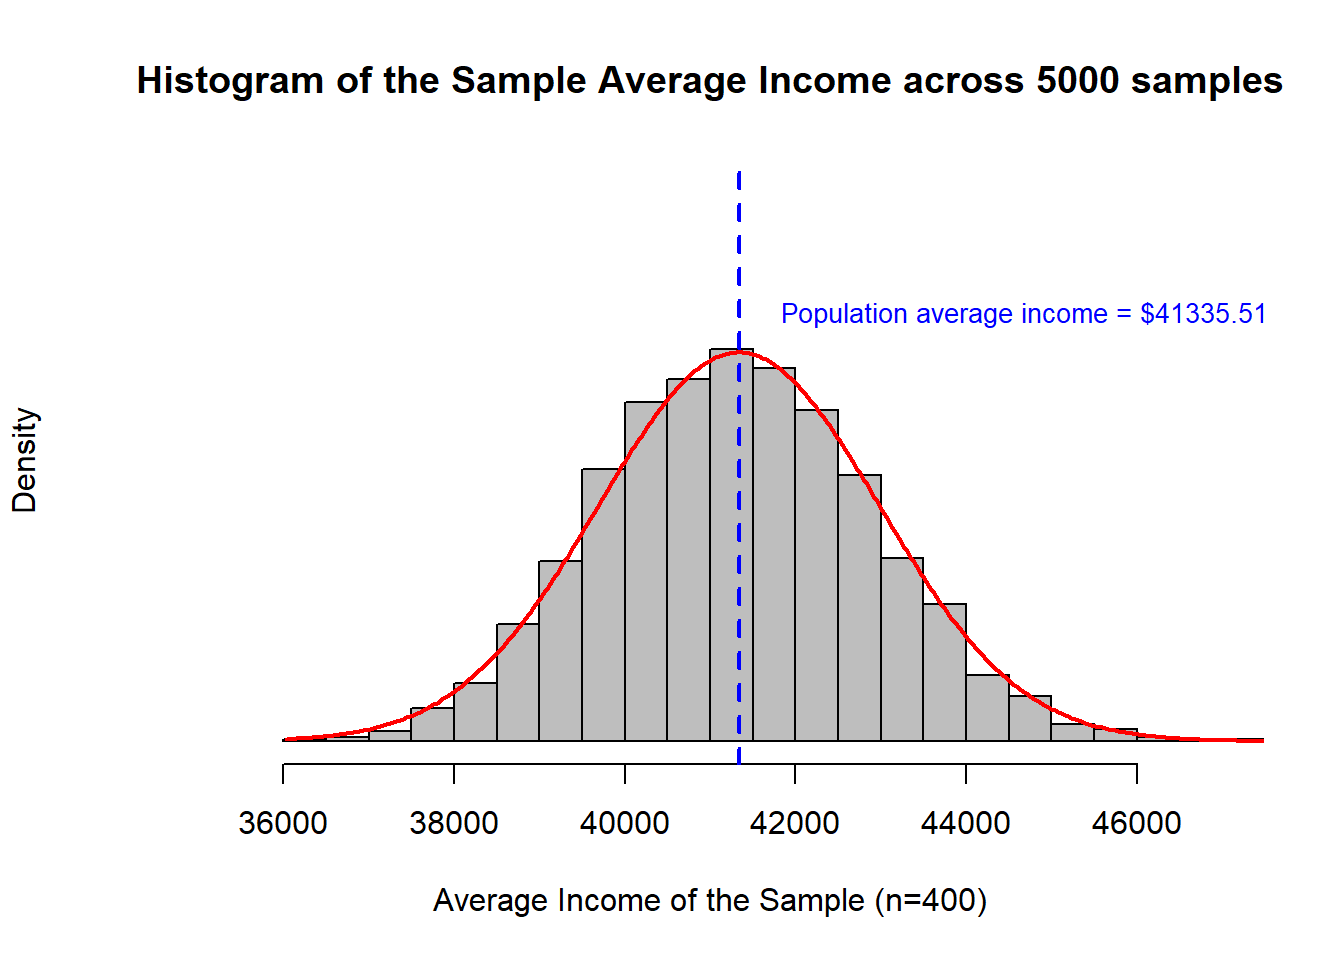
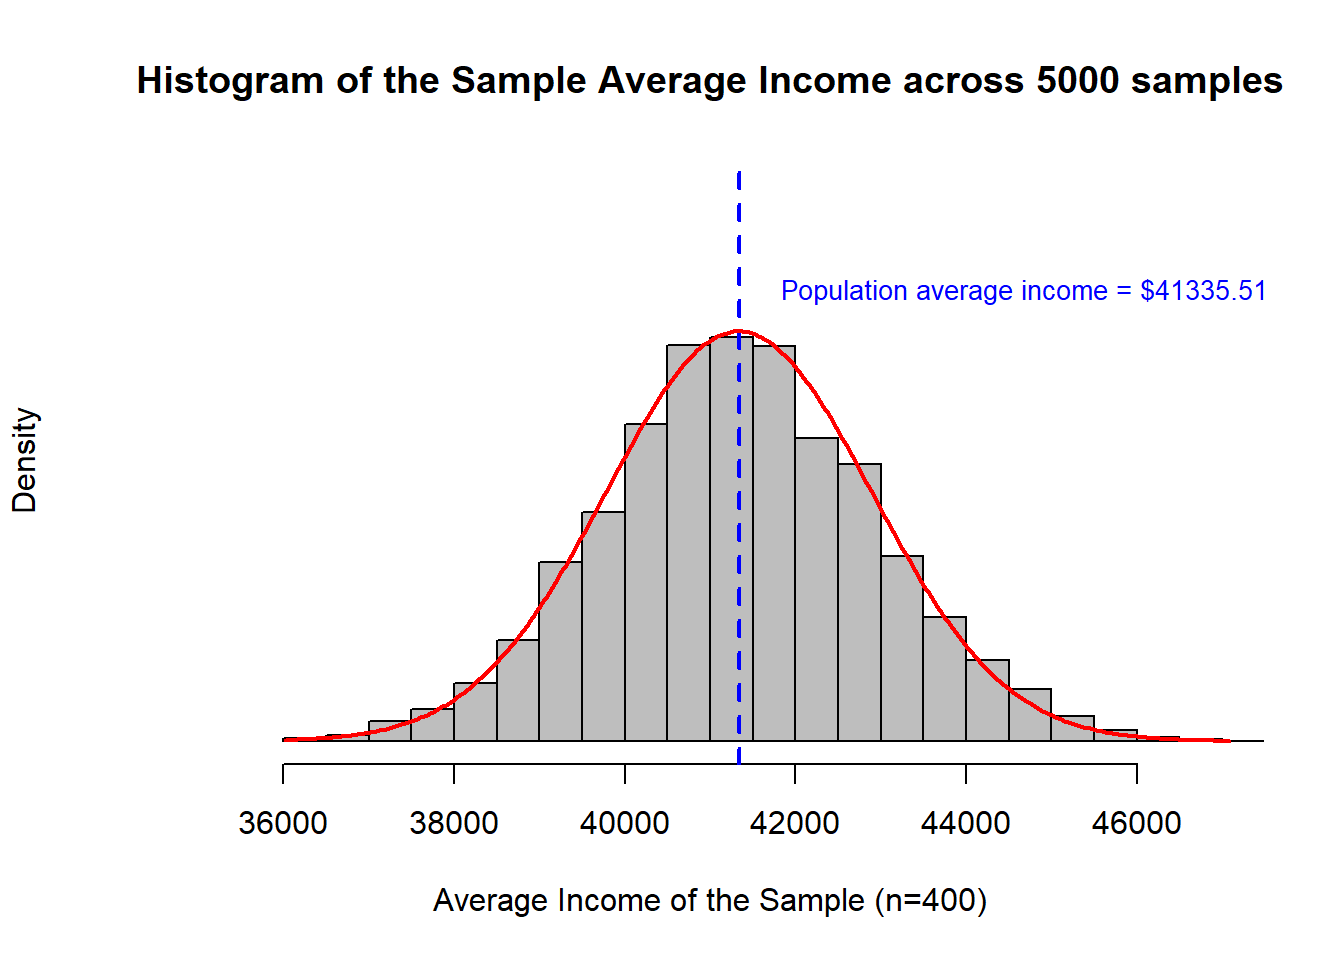
Try again: update spacing

diff --git a/docs/03b-CLT.html b/docs/03b-CLT.html
@@ -457,11 +457,11 @@ deviation of the sample.</p>
 <pre class="r"><code># Calculate the sample mean of Income
 sample.avg &lt;- mean(study.data$INCOME)
 sample.avg</code></pre>
-<pre><code>&gt; [1] 43085.85</code></pre>
+<pre><code>&gt; [1] 44075.4</code></pre>
 <pre class="r"><code># Calculate the sample sd of Income
 sample.sd &lt;- sd(study.data$INCOME)
 sample.sd</code></pre>
-<pre><code>&gt; [1] 32036.42</code></pre>
+<pre><code>&gt; [1] 35090.62</code></pre>
 <p>If you run the last two sections of code repeatedly, you will find
 that each time a new sample is selected the sample mean is a different
 number.</p>
@@ -587,7 +587,7 @@ upperCI = sample.avg + qnorm(0.975, mean = 0, sd = 1) * se
 
 print(cbind(sample.avg, lowerCI, upperCI))</code></pre>
 <pre><code>&gt;      sample.avg  lowerCI  upperCI
-&gt; [1,]   43831.07 40605.22 47056.91</code></pre>
+&gt; [1,]   41793.47 38733.07 44853.88</code></pre>
 </div>
 <div id="interpreting-confidence-intervals" class="section level2">
 <h2>Interpreting confidence intervals</h2>
@@ -613,7 +613,7 @@ sample.reps$outBounds[ true.avg &gt; sample.reps$upperCI ] &lt;- 1
 
 # what % of study replications reported 95% CI that did not include the true population average?
 sum(sample.reps$outBounds)/m</code></pre>
-<pre><code>&gt; [1] 0.0494</code></pre>
+<pre><code>&gt; [1] 0.0572</code></pre>
 <p>I hope it is not too much of a surprise that this is really close to
 5%!</p>
 <p>Next: Elements of a Statistical Test</p>

diff --git a/docs/04a-Binomial-Test.html b/docs/04a-Binomial-Test.html
@@ -366,7 +366,7 @@ if(runif(1) &lt;= p){1}else{0}</code></pre>
 p = 1/6
 n = 20
 as.integer(runif(n) &lt;= p)</code></pre>
-<pre><code>&gt;  [1] 1 1 1 0 0 0 0 0 0 1 0 0 0 1 0 0 0 0 0 0</code></pre>
+<pre><code>&gt;  [1] 0 0 0 0 0 0 0 0 0 0 0 0 0 0 0 0 1 0 0 0</code></pre>
 </div>
 </div>
 <div id="binomial-distribution-functions" class="section level2">
@@ -424,9 +424,9 @@ trials when the probability of success is “prob”</p>
 n = 20
 p = 1/6
 rbinom(n = trials, size = n, prob = p)</code></pre>
-<pre><code>&gt;   [1] 3 4 4 3 3 1 3 3 4 2 5 3 3 3 4 5 4 5 2 2 0 1 4 3 2 3 6 4 3 3 4 3 2 4 5 7 1
-&gt;  [38] 3 3 1 4 0 3 4 2 2 5 2 1 1 2 1 4 7 1 7 3 2 5 1 2 4 3 5 4 5 3 4 3 2 0 4 3 3
-&gt;  [75] 2 1 1 5 1 6 1 4 4 3 1 4 1 2 1 6 3 3 1 2 2 2 4 3 2 4</code></pre>
+<pre><code>&gt;   [1] 4 3 3 2 4 5 2 4 5 2 3 1 1 4 1 6 2 4 2 0 4 3 4 3 3 2 2 3 3 0 4 5 2 3 2 3 3
+&gt;  [38] 2 6 6 4 4 4 2 4 5 4 1 5 1 2 4 5 4 2 3 4 3 3 5 3 8 5 2 4 5 7 5 5 1 3 1 4 2
+&gt;  [75] 3 3 1 5 2 2 2 5 1 2 4 3 4 4 6 0 3 6 6 4 2 1 3 3 2 3</code></pre>
 </div>
 </div>
 <div id="binomial-test-theory" class="section level2">
